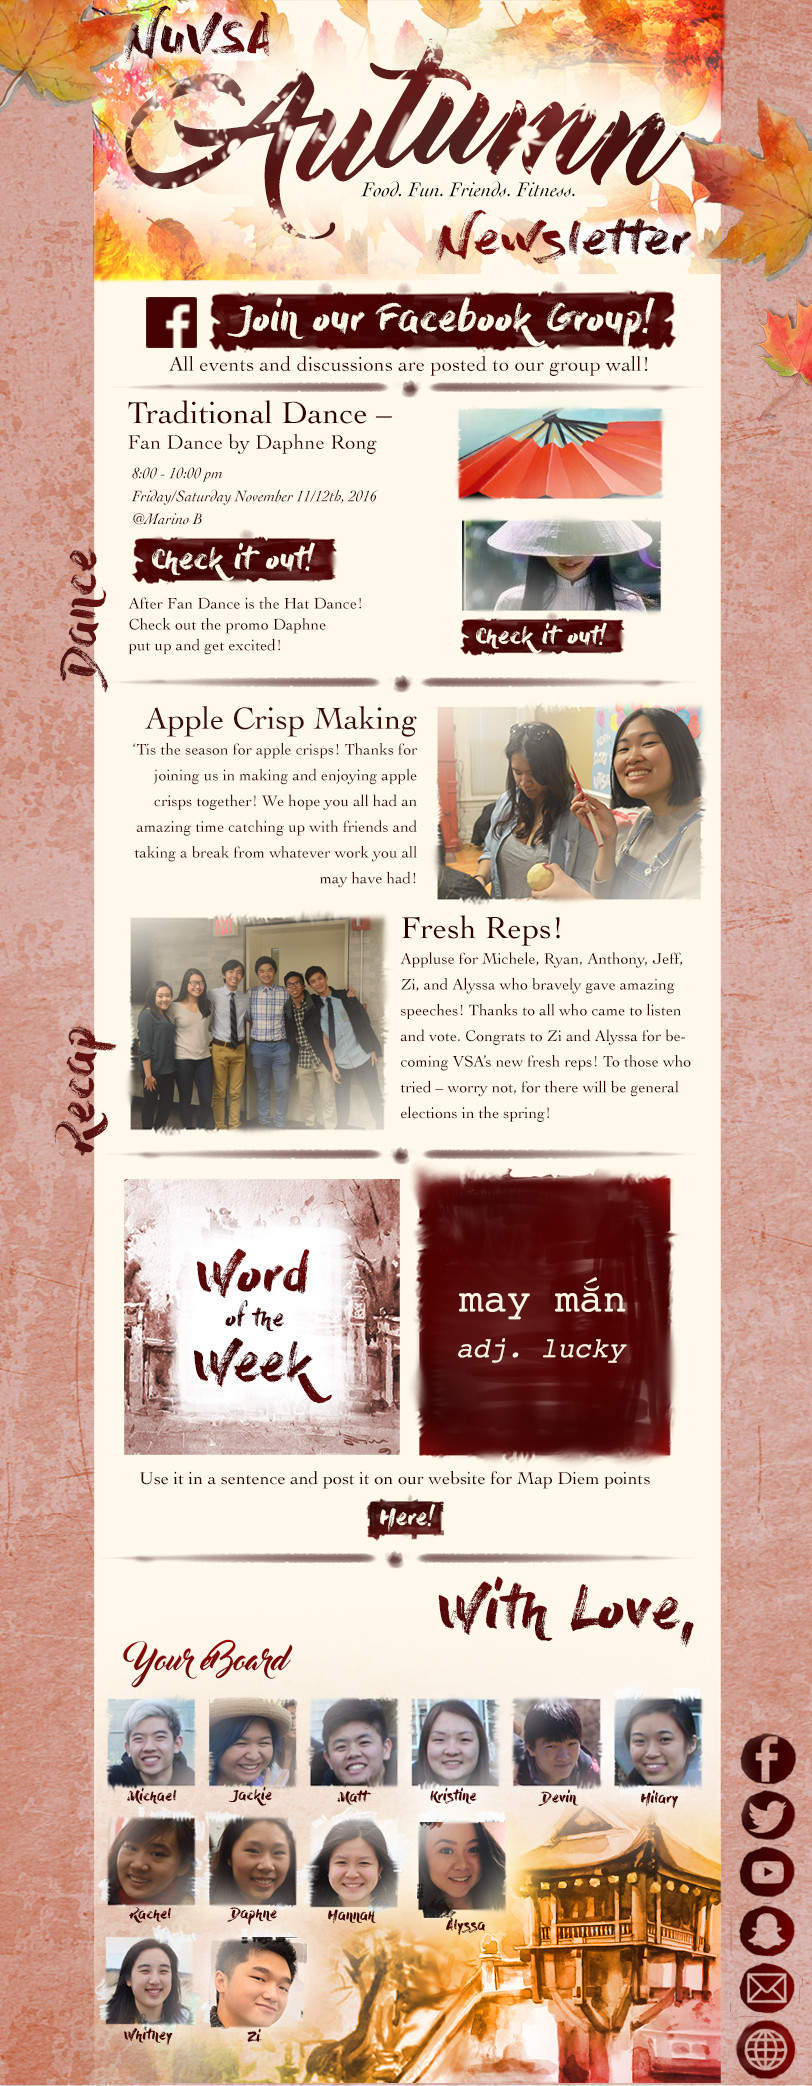
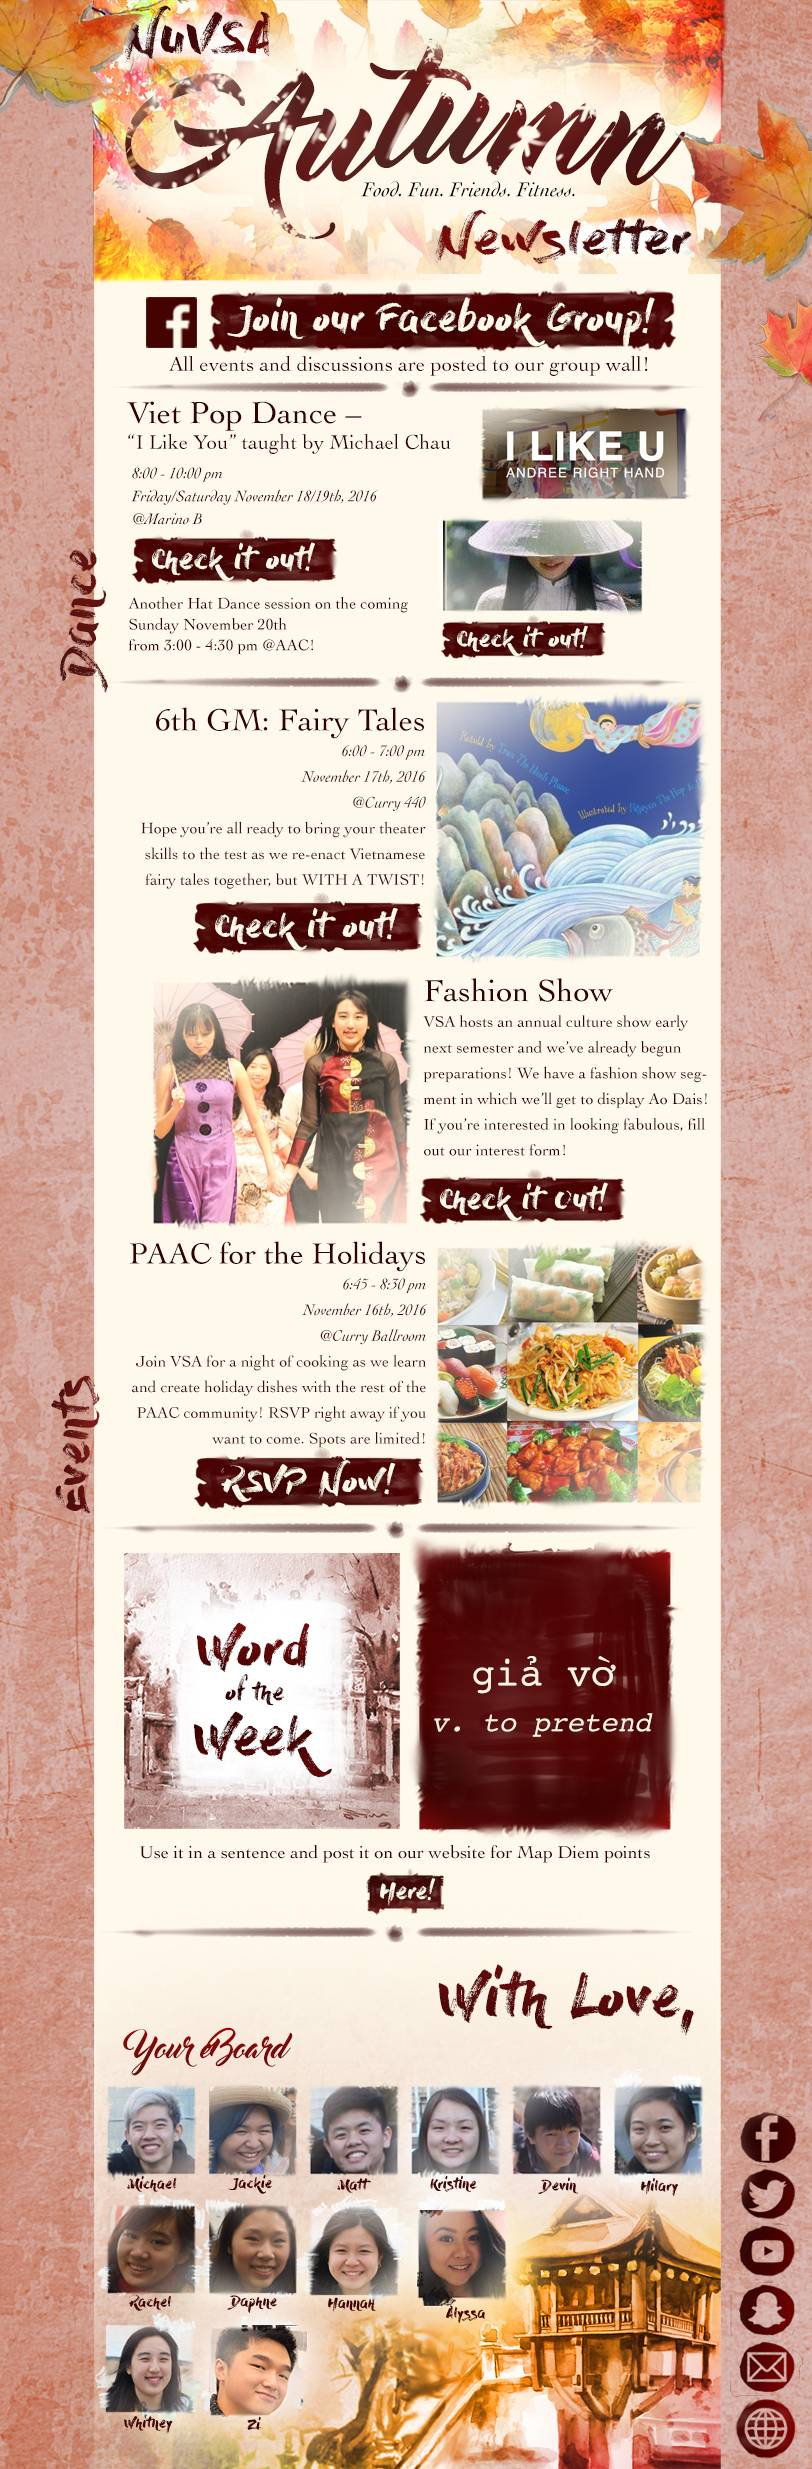
Updated current newsletter - 11/14/16

diff --git a/index.html b/index.html
@@ -72,18 +72,21 @@
     <!-- Matt was here LOL -->
     <!-- ...mmmm check out dat source -->
     <div id="newsletter-container">
-        <img id="newsletter" src="http://i.imgur.com/xVSJIpO.jpg" border="0" width="812" height="2086" orgWidth="812" orgHeight="2086" usemap="#map" alt="" />
+        <img id="newsletter" src="images/newsletterImage.jpg" border="0" width="812" height="2469" orgWidth="812" orgHeight="2469" usemap="#map" alt="" />
     </div>
     <map name="map" id="newsletterMap">
-        <area  alt="" title="" href="https://www.facebook.com/groups/NUVSA/" shape="rect" coords="213,295,672,347" style="outline:none;" target="_self"     />
-        <area  alt="" title="" href="https://www.facebook.com/events/1178884045515650/" shape="rect" coords="133,539,335,580" style="outline:none;" target="_self"     />
-        <area  alt="" title="" href="https://www.facebook.com/daphne.rong/videos/1236095673114912/" shape="rect" coords="463,622,621,654" style="outline:none;" target="_self"     />
-        <area  alt="" title="" href="http://www.vsa.neu.edu/#cboxdiv" shape="rect" coords="370,1503,444,1535" style="outline:none;" target="_self"     />
-        <area  alt="" title="" href="https://www.facebook.com/groups/NUVSA/" shape="rect" coords="740,1735,794,1782" style="outline:none;" target="_self"     />
-        <area  alt="" title="" href="https://twitter.com/nuvsa" shape="rect" coords="742,1792,796,1839" style="outline:none;" target="_self"     />
-        <area  alt="" title="" href="https://www.youtube.com/user/NUVSA" shape="rect" coords="741,1849,795,1896" style="outline:none;" target="_self"     />
-        <area  alt="" title="" href="https://nuvsa.github.io/images/vsaSnapchat.jpg" shape="rect" coords="742,1907,796,1954" style="outline:none;" target="_self"     />
-        <area  alt="" title="" href="http://www.vsa.neu.edu/about/" shape="rect" coords="737,2027,791,2074" style="outline:none;" target="_self"     />
+        <area  alt="" title="" href="https://www.facebook.com/groups/NUVSA/" shape="rect" coords="209,293,675,351" style="outline:none;" target="_self"     />
+        <area  alt="" title="" href="https://www.facebook.com/events/1844287635790443/" shape="rect" coords="134,539,338,582" style="outline:none;" target="_self"     />
+        <area  alt="" title="" href="https://www.facebook.com/events/218940285206904/" shape="rect" coords="439,624,605,657" style="outline:none;" target="_self"     />
+        <area  alt="" title="" href="https://www.facebook.com/events/1597359293903983/" shape="rect" coords="197,901,419,953" style="outline:none;" target="_self"     />
+        <area  alt="" title="" href="https://docs.google.com/forms/d/1gdgsNwb8-pZR1iuaQyAVgJ_Iy1YQe8ReIpU4UXW64po/" shape="rect" coords="425,1176,624,1222" style="outline:none;" target="_self"     />
+        <area  alt="" title="" href="https://www.facebook.com/events/1800986870189086/" shape="rect" coords="199,1460,420,1506" style="outline:none;" target="_self"     />
+        <area  alt="" title="" href="http://www.vsa.neu.edu/#cboxdiv" shape="rect" coords="367,1877,445,1911" style="outline:none;" target="_self"     />
+        <area  alt="" title="" href="https://www.facebook.com/groups/NUVSA/" shape="rect" coords="741,2116,794,2163" style="outline:none;" target="_self"     />
+        <area  alt="" title="" href="https://twitter.com/nuvsa" shape="rect" coords="743,2173,796,2220" style="outline:none;" target="_self"     />
+        <area  alt="" title="" href="https://www.youtube.com/user/NUVSA" shape="rect" coords="742,2229,795,2276" style="outline:none;" target="_self"     />
+        <area  alt="" title="" href="https:/nuvsa.github.io/images/vsaSnapchat.jpg" shape="rect" coords="740,2288,793,2335" style="outline:none;" target="_self"     />
+        <area  alt="" title="" href="http://www.vsa.neu.edu/about/" shape="rect" coords="738,2406,791,2453" style="outline:none;" target="_self"     />
     </map>
 </body>
 <script>
